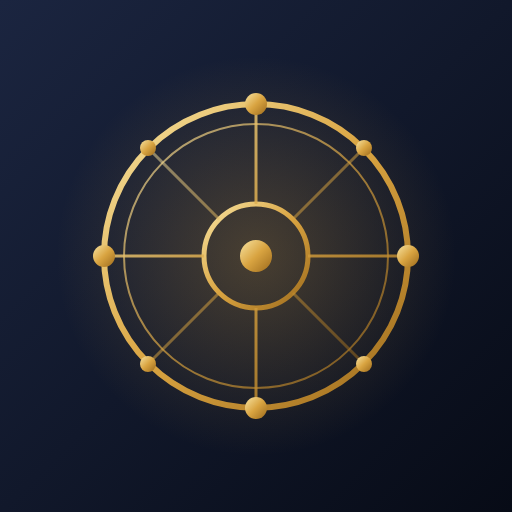
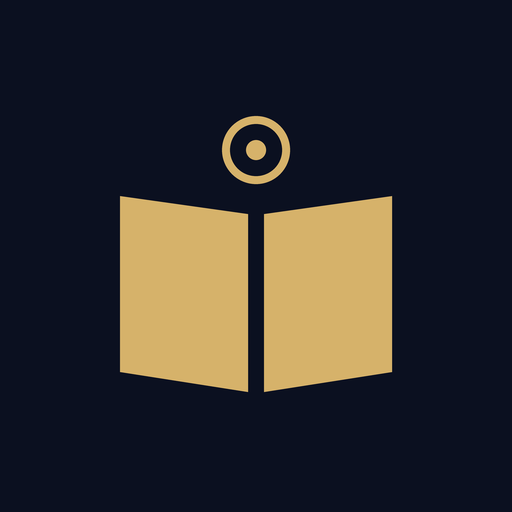
アイコンを開いた本に変更
- icon-512.png / icon-192.png / icon-180.png / icon.svg を、紺地に金の開いた本に差し替え
- アイコンの作成スクリプト tools/make-icons.py を追加(Pillow)
- sw.js を kantei-v22 に更新

diff --git a/sw.js b/sw.js
@@ -1,4 +1,4 @@
-const C="kantei-v21",ASSETS=['./','index.html','app.enc','manifest.webmanifest','icon.svg','icon-180.png','icon-192.png','icon-512.png'];
+const C="kantei-v22",ASSETS=['./','index.html','app.enc','manifest.webmanifest','icon.svg','icon-180.png','icon-192.png','icon-512.png'];
 self.addEventListener('install',e=>{e.waitUntil(caches.open(C).then(c=>c.addAll(ASSETS)).then(()=>self.skipWaiting()))});
 self.addEventListener('activate',e=>{e.waitUntil(caches.keys().then(k=>Promise.all(k.filter(x=>x!==C).map(x=>caches.delete(x)))).then(()=>self.clients.claim()))});
 // ネットワーク優先（更新を反映）。つながらないときは保存済みを使う

diff --git a/tools/make-icons.py b/tools/make-icons.py
@@ -1,0 +1,35 @@
+"""鑑定ハンドブックのアイコン(開いた本)を作る。使い方: python tools/make-icons.py  (Pillow が必要: pip install pillow)
+icon-512.png / icon-192.png / icon-180.png / icon.svg を、リポジトリ直下に書き出す。
+背景は全面を塗る(OSが角を丸める。maskable に対応するため、図は中央の約55%に収める)。"""
+from pathlib import Path
+from PIL import Image, ImageDraw
+
+BG, GOLD = (0x0b, 0x10, 0x20), (0xd6, 0xb2, 0x6a)
+ROOT = Path(__file__).resolve().parent.parent
+S = 8  # 作図は8倍の大きさで行い、縮小してなめらかにする
+LEFT = [(248, 214), (120, 196), (120, 372), (248, 392)]
+RIGHT = [(512 - x, y) for x, y in LEFT]
+
+def render(size):
+    n = 512 * S
+    im = Image.new('RGB', (n, n), BG)
+    d = ImageDraw.Draw(im)
+    def circle(cx, cy, r, fill=None, outline=None, width=0):
+        d.ellipse([(cx - r) * S, (cy - r) * S, (cx + r) * S, (cy + r) * S], fill=fill, outline=outline, width=width * S)
+    circle(256, 150, 34, outline=GOLD, width=8)                          # 上の輪
+    circle(256, 150, 10, fill=GOLD)                                      # 中心の点
+    d.polygon([(x * S, y * S) for x, y in LEFT], fill=GOLD)              # 左のページ
+    d.polygon([(x * S, y * S) for x, y in RIGHT], fill=GOLD)             # 右のページ
+    return im.resize((size, size), Image.LANCZOS)
+
+HEX = lambda c: '#%02x%02x%02x' % c
+SVG = (f'<svg xmlns="http://www.w3.org/2000/svg" viewBox="0 0 512 512"><rect width="512" height="512" fill="{HEX(BG)}"/>'
+       f'<circle cx="256" cy="150" r="34" fill="none" stroke="{HEX(GOLD)}" stroke-width="8"/><circle cx="256" cy="150" r="10" fill="{HEX(GOLD)}"/>'
+       f'<path d="M248 214 L120 196 L120 372 L248 392 Z" fill="{HEX(GOLD)}"/><path d="M264 214 L392 196 L392 372 L264 392 Z" fill="{HEX(GOLD)}"/></svg>\n')
+
+if __name__ == '__main__':
+    for name, size in (('icon-512.png', 512), ('icon-192.png', 192), ('icon-180.png', 180)):
+        render(size).save(ROOT / name, optimize=True)
+        print('wrote', name, size)
+    (ROOT / 'icon.svg').write_text(SVG, encoding='utf-8')
+    print('wrote icon.svg')
